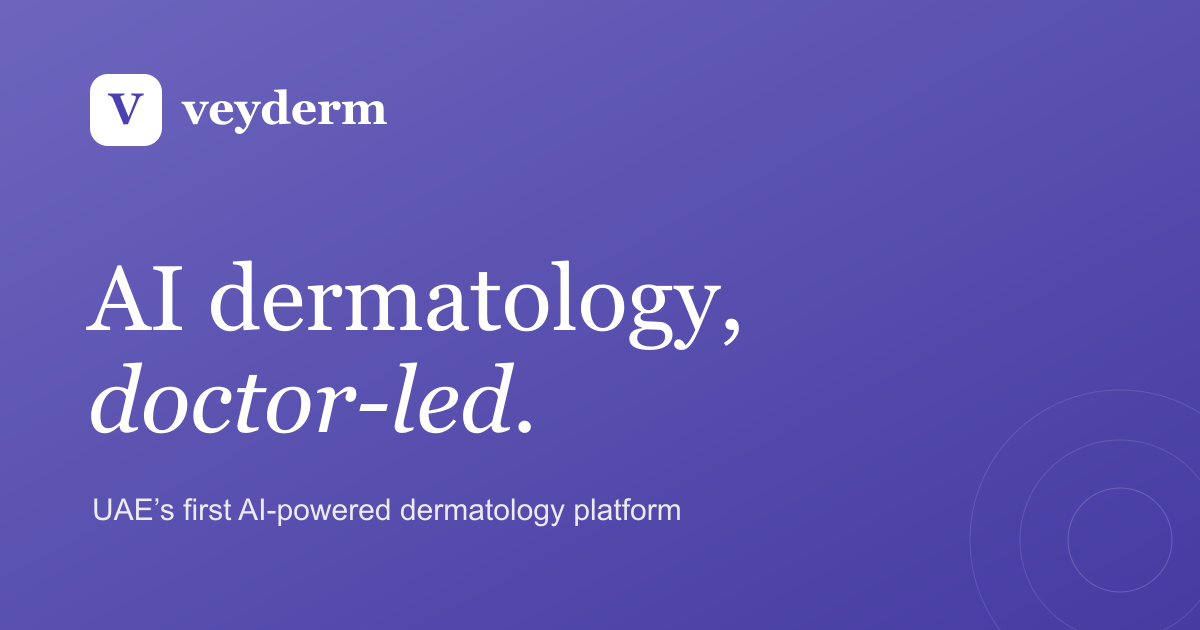
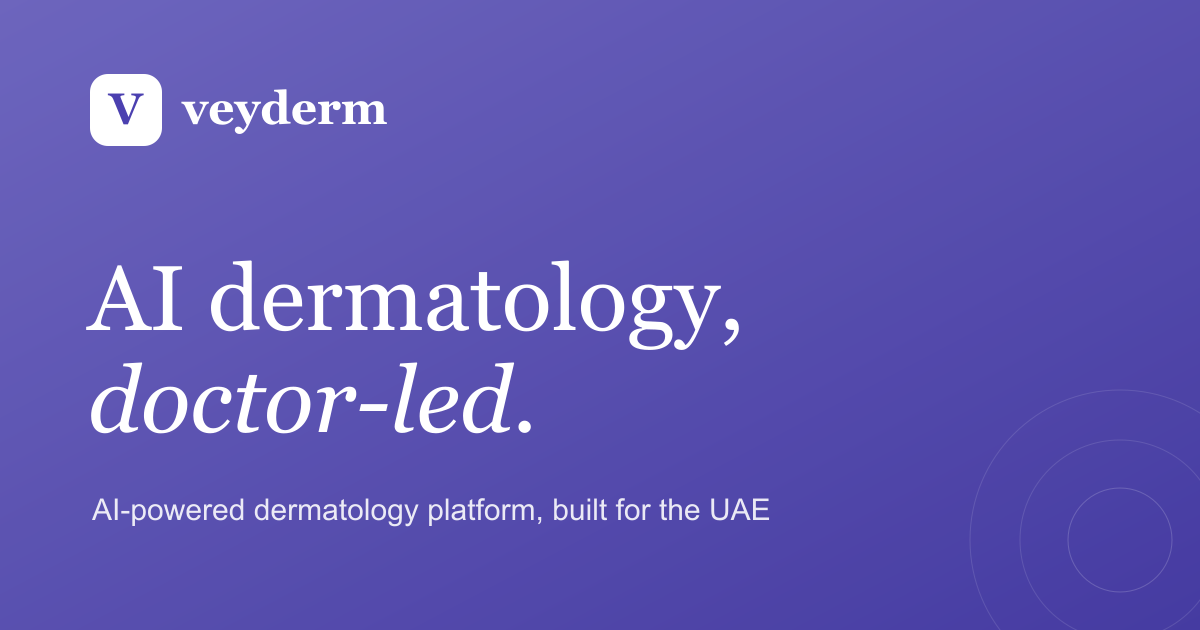
SEO, FAQ and credibility improvements
- Add accessible FAQ accordion (7 Q&As) before the final CTA; honest answers
  from the site's own claims with [REPLACE: ...] markers stripped before render
- Add JSON-LD (Organization, WebSite, FAQPage) in page.tsx; no "first" claim,
  no fabricated figures/partners/socials; FAQ data shared via lib/faq.ts
- ForDoctors: "The doctor stays in control" 3-step visual flow
  (AI suggests -> you review the evidence -> you approve)
- Add FoundingPartners section hidden behind a SHOW_PARTNERS constant until
  real content exists
- Soften "UAE's first AI-powered dermatology platform" -> "AI-powered
  dermatology platform, built for the UAE" in the hero, metadata and OG image
  (regenerated); keep "first" only if confirmed
- Footer: visible contact route (email + [REPLACE: WhatsApp number])
- products/[slug] already returns notFound() and is absent from the sitemap

Changed region(s): [[0.0617, 0.7841, 0.6475, 0.8444]]

diff --git a/components/ForDoctors.tsx b/components/ForDoctors.tsx
@@ -79,6 +79,50 @@ export function ForDoctors() {
             <p>Allergies, pregnancy, and clashes flagged automatically.</p>
           </div>
         </div>
+        <div className="control">
+          <div className="control-t">The doctor stays in control</div>
+          <ol className="control-flow">
+            <li className="cf-step">
+              <span className="cf-ic">
+                <svg viewBox="0 0 24 24" width="22" height="22" fill="none" stroke="currentColor" strokeWidth="1.6" strokeLinecap="round" strokeLinejoin="round" aria-hidden="true">
+                  <path d="M12 3v3M12 18v3M3 12h3M18 12h3M5.6 5.6l2.1 2.1M16.3 16.3l2.1 2.1M18.4 5.6l-2.1 2.1M7.7 16.3l-2.1 2.1" />
+                </svg>
+              </span>
+              <h3>AI suggests</h3>
+              <p>Evidence-ranked options and safety flags, drafted in seconds.</p>
+            </li>
+            <li className="cf-arrow" aria-hidden="true">
+              <svg viewBox="0 0 24 24" width="20" height="20" fill="none" stroke="currentColor" strokeWidth="2" strokeLinecap="round" strokeLinejoin="round">
+                <path d="M5 12h14" /><path d="m13 6 6 6-6 6" />
+              </svg>
+            </li>
+            <li className="cf-step">
+              <span className="cf-ic">
+                <svg viewBox="0 0 24 24" width="22" height="22" fill="none" stroke="currentColor" strokeWidth="1.6" strokeLinecap="round" strokeLinejoin="round" aria-hidden="true">
+                  <path d="M2 12s3.5-7 10-7 10 7 10 7-3.5 7-10 7-10-7-10-7z" />
+                  <circle cx="12" cy="12" r="3" />
+                </svg>
+              </span>
+              <h3>You review the evidence</h3>
+              <p>See how strong the evidence is, explained in plain words.</p>
+            </li>
+            <li className="cf-arrow" aria-hidden="true">
+              <svg viewBox="0 0 24 24" width="20" height="20" fill="none" stroke="currentColor" strokeWidth="2" strokeLinecap="round" strokeLinejoin="round">
+                <path d="M5 12h14" /><path d="m13 6 6 6-6 6" />
+              </svg>
+            </li>
+            <li className="cf-step">
+              <span className="cf-ic">
+                <svg viewBox="0 0 24 24" width="22" height="22" fill="none" stroke="currentColor" strokeWidth="1.6" strokeLinecap="round" strokeLinejoin="round" aria-hidden="true">
+                  <path d="M20 6 9 17l-5-5" />
+                </svg>
+              </span>
+              <h3>You approve</h3>
+              <p>Nothing reaches the patient until you say so.</p>
+            </li>
+          </ol>
+        </div>
+
         <div className="start">
           <div className="start-t">Getting started is simple</div>
           <ol className="s3">

diff --git a/app/globals.css b/app/globals.css
@@ -471,3 +471,40 @@ footer .logo-foot{height:30px}
 .legal ul{margin:0 0 14px;padding-left:20px;color:var(--muted);line-height:1.65}
 .legal li{margin-bottom:6px}
 .legal .back{display:inline-block;margin-top:32px;font-weight:600;color:var(--purple-deep)}
+
+/* FAQ accordion */
+.faq-list{margin-top:36px;max-width:820px;border-top:1px solid var(--line)}
+.faq-item{border-bottom:1px solid var(--line)}
+.faq-q{margin:0;font-size:inherit;font-weight:inherit;line-height:inherit}
+.faq-q button{width:100%;display:flex;align-items:center;justify-content:space-between;gap:16px;text-align:left;background:none;border:0;cursor:pointer;padding:20px 4px;font-family:var(--sans);font-size:17px;font-weight:600;color:var(--ink)}
+.faq-q button:hover{color:var(--purple-deep)}
+.faq-chevron{flex:none;color:var(--purple);transition:transform .2s ease}
+.faq-item.open .faq-chevron{transform:rotate(180deg)}
+.faq-a{padding:0 4px 22px;max-width:72ch}
+.faq-a p{color:var(--muted);font-size:15.5px;line-height:1.65}
+
+/* Doctor-stays-in-control flow */
+.control{margin-top:40px;border:1px solid var(--line);border-radius:var(--r-lg);background:var(--purple-soft);padding:28px 26px}
+.control-t{font-weight:600;font-size:16px;color:var(--purple-deep);margin-bottom:22px;text-align:center}
+.control-flow{list-style:none;margin:0;padding:0;display:flex;align-items:flex-start;justify-content:center;gap:12px;flex-wrap:wrap}
+.cf-step{flex:1;min-width:178px;max-width:240px;text-align:center;display:flex;flex-direction:column;align-items:center;gap:8px}
+.cf-ic{width:52px;height:52px;border-radius:50%;background:var(--paper);border:2px solid var(--purple);color:var(--purple);display:grid;place-items:center;box-shadow:var(--sh-sm)}
+.cf-step h3{font-size:16px;font-weight:600;color:var(--ink)}
+.cf-step p{font-size:13.5px;color:var(--muted);line-height:1.5}
+.cf-arrow{display:grid;place-items:center;color:var(--purple);align-self:center;padding-top:14px}
+@media(max-width:640px){
+  .control-flow{flex-direction:column;align-items:stretch}
+  .cf-step{max-width:none}
+  .cf-arrow{transform:rotate(90deg);padding:0}
+}
+
+/* Founding partners (hidden until real content) */
+.founding-grid{margin-top:32px;border:1px dashed var(--line);border-radius:var(--r-lg);padding:48px;text-align:center}
+.founding-ph{color:var(--muted);font-size:15px}
+
+/* Footer contact */
+.fcontact{margin-top:28px;padding-top:24px;border-top:1px solid var(--line);display:flex;align-items:center;gap:14px 24px;flex-wrap:wrap}
+.fcontact-t{font-weight:600;color:var(--ink);font-size:14px}
+.fcontact-item{display:inline-flex;align-items:center;gap:8px;font-size:14px;color:var(--muted)}
+.fcontact-item svg{color:var(--purple-deep);flex:none}
+a.fcontact-item:hover{color:var(--ink)}

diff --git a/lib/faq.ts b/lib/faq.ts
@@ -1,0 +1,44 @@
+// FAQ content — shared between the client accordion (components/Faq.tsx) and the
+// server-rendered FAQPage JSON-LD (app/page.tsx). Kept in a plain (non-client)
+// module so both the server and client can import it.
+//
+// Honest answers drawn from the site's own claims. Where a concrete fact isn't
+// established yet, the answer carries a [REPLACE: ...] marker, which is stripped
+// before rendering and before use in structured data.
+
+export const FAQ_ITEMS: { q: string; a: string }[] = [
+  {
+    q: "What is Veyderm?",
+    a: "Veyderm is an AI agent that helps licensed dermatologists in the UAE build evidence-based treatment plans, recommend verified products, and stay connected with patients on WhatsApp. The dermatologist reviews and approves every plan.",
+  },
+  {
+    q: "Is this medical advice?",
+    a: "No. Veyderm supports dermatologists — it doesn't replace them. The sample plans, products and evidence levels shown on this site are illustrative examples, not recommendations. Always consult a qualified healthcare professional.",
+  },
+  {
+    q: "How are products verified?",
+    a: "Recommendations come from authorized distributors, so dermatologists prescribe genuine products rather than fakes or grey-market stock. [REPLACE: details of how products and distributors are authorized]",
+  },
+  {
+    q: "Who decides the treatment plan?",
+    a: "The dermatologist. The AI suggests evidence-ranked options and flags safety issues such as interactions or pregnancy cautions, but nothing reaches a patient until the doctor reviews and approves it — AI suggests, the doctor decides.",
+  },
+  {
+    q: "How do patients use it on WhatsApp?",
+    a: "Once a dermatologist approves a plan, it is delivered to the patient on WhatsApp with ingredients, usage and safety notes, follow-up reminders, and a 24/7 assistant for product and usage questions.",
+  },
+  {
+    q: "Who can join?",
+    a: "Veyderm is onboarding licensed dermatologists and authorized distributors in the UAE. Request early access and we verify your medical license before you start. [REPLACE: full eligibility and onboarding details]",
+  },
+  {
+    q: "How is my data handled?",
+    a: "The early-access form collects only your name, email and role, used solely to contact you about access. We don't sell your data, and analytics load only if you accept the cookie banner. See our Privacy Policy for details.",
+  },
+];
+
+// Strip [REPLACE: ...] markers so placeholder text never leaks into the rendered
+// answer or the FAQPage structured data.
+export function cleanAnswer(a: string): string {
+  return a.replace(/\s*\[REPLACE:[^\]]*\]/g, "").trim();
+}

diff --git a/app/page.tsx b/app/page.tsx
@@ -9,13 +9,70 @@ import { HowItWorks } from "@/components/HowItWorks";
 import { PatientJourney } from "@/components/PatientJourney";
 import { ForDoctors } from "@/components/ForDoctors";
 import { ForDistributors } from "@/components/ForDistributors";
+import { FoundingPartners } from "@/components/FoundingPartners";
+import { Faq } from "@/components/Faq";
+import { FAQ_ITEMS, cleanAnswer } from "@/lib/faq";
 import { CtaForm } from "@/components/CtaForm";
 import { Footer } from "@/components/Footer";
 import { ScrollReveal } from "@/components/ScrollReveal";
 
+const siteUrl = (process.env.NEXT_PUBLIC_SITE_URL || "https://www.veyderm.com").replace(
+  /\/$/,
+  ""
+);
+
+// Structured data. Only verifiable claims — no "first", no fabricated figures,
+// partners or social profiles.
+const jsonLd = {
+  "@context": "https://schema.org",
+  "@graph": [
+    {
+      "@type": "Organization",
+      "@id": `${siteUrl}/#organization`,
+      name: "Veyderm",
+      url: siteUrl,
+      logo: `${siteUrl}/og-image.png`,
+      description:
+        "An AI-powered dermatology platform built for the UAE that helps licensed dermatologists build evidence-based treatment plans, recommend verified products, and stay connected with patients on WhatsApp.",
+      email: "info@veyderm.com",
+      address: {
+        "@type": "PostalAddress",
+        addressLocality: "Dubai",
+        addressCountry: "AE",
+      },
+      contactPoint: {
+        "@type": "ContactPoint",
+        email: "info@veyderm.com",
+        contactType: "customer support",
+        areaServed: "AE",
+      },
+    },
+    {
+      "@type": "WebSite",
+      "@id": `${siteUrl}/#website`,
+      name: "Veyderm",
+      url: siteUrl,
+      publisher: { "@id": `${siteUrl}/#organization` },
+    },
+    {
+      "@type": "FAQPage",
+      "@id": `${siteUrl}/#faq`,
+      mainEntity: FAQ_ITEMS.map((item) => ({
+        "@type": "Question",
+        name: item.q,
+        acceptedAnswer: { "@type": "Answer", text: cleanAnswer(item.a) },
+      })),
+    },
+  ],
+};
+
 export default function Home() {
   return (
     <>
+      <script
+        type="application/ld+json"
+        dangerouslySetInnerHTML={{ __html: JSON.stringify(jsonLd) }}
+      />
       <ScrollReveal />
       <Header />
       <main id="top">
@@ -29,6 +86,8 @@ export default function Home() {
         <PatientJourney />
         <ForDoctors />
         <ForDistributors />
+        <FoundingPartners />
+        <Faq />
         <CtaForm />
       </main>
       <Footer />

diff --git a/components/Faq.tsx b/components/Faq.tsx
@@ -1,0 +1,60 @@
+"use client";
+
+import { useState } from "react";
+import { FAQ_ITEMS, cleanAnswer } from "@/lib/faq";
+
+export function Faq() {
+  const [open, setOpen] = useState<number | null>(0);
+
+  return (
+    <section className="sec faq" id="faq">
+      <div className="wrap">
+        <div className="sec-tag">FAQ</div>
+        <h2>Questions, answered plainly.</h2>
+        <div className="faq-list">
+          {FAQ_ITEMS.map((item, i) => {
+            const isOpen = open === i;
+            return (
+              <div className={`faq-item${isOpen ? " open" : ""}`} key={item.q}>
+                <h3 className="faq-q">
+                  <button
+                    type="button"
+                    aria-expanded={isOpen}
+                    aria-controls={`faq-panel-${i}`}
+                    id={`faq-trigger-${i}`}
+                    onClick={() => setOpen(isOpen ? null : i)}
+                  >
+                    <span>{item.q}</span>
+                    <svg
+                      className="faq-chevron"
+                      viewBox="0 0 24 24"
+                      width="20"
+                      height="20"
+                      fill="none"
+                      stroke="currentColor"
+                      strokeWidth="1.8"
+                      strokeLinecap="round"
+                      strokeLinejoin="round"
+                      aria-hidden="true"
+                    >
+                      <path d="m6 9 6 6 6-6" />
+                    </svg>
+                  </button>
+                </h3>
+                <div
+                  className="faq-a"
+                  id={`faq-panel-${i}`}
+                  role="region"
+                  aria-labelledby={`faq-trigger-${i}`}
+                  hidden={!isOpen}
+                >
+                  <p>{cleanAnswer(item.a)}</p>
+                </div>
+              </div>
+            );
+          })}
+        </div>
+      </div>
+    </section>
+  );
+}

diff --git a/components/Footer.tsx b/components/Footer.tsx
@@ -13,8 +13,23 @@ export function Footer() {
             <a href="#distributors">For Distributors</a>
             <a href="/privacy">Privacy</a>
             <a href="/terms">Terms</a>
-            <a href="mailto:info@veyderm.com">Contact</a>
           </div>
+        </div>
+        <div className="fcontact">
+          <span className="fcontact-t">Get in touch</span>
+          <a className="fcontact-item" href="mailto:info@veyderm.com">
+            <svg viewBox="0 0 24 24" width="17" height="17" fill="none" stroke="currentColor" strokeWidth="1.6" strokeLinecap="round" strokeLinejoin="round" aria-hidden="true">
+              <rect x="3" y="5" width="18" height="14" rx="2" />
+              <path d="m3 7 9 6 9-6" />
+            </svg>
+            info@veyderm.com
+          </a>
+          <span className="fcontact-item">
+            <svg viewBox="0 0 24 24" width="17" height="17" fill="currentColor" aria-hidden="true">
+              <path d="M12 2a10 10 0 0 0-8.6 15L2 22l5.1-1.3A10 10 0 1 0 12 2zm0 2a8 8 0 1 1-4.1 14.9l-.3-.2-2.5.7.7-2.4-.2-.3A8 8 0 0 1 12 4zm4.6 11.3c-.2.6-1.2 1.1-1.7 1.2-.5.1-1 .2-3.2-.7-2.7-1-4.4-3.7-4.5-3.9-.1-.2-1-1.4-1-2.6s.7-1.8.9-2.1c.2-.3.5-.3.7-.3h.5c.2 0 .4 0 .6.5.2.5.8 2 .9 2.1 0 .1.1.3 0 .5l-.4.6-.4.4c-.1.1-.3.3-.1.5.2.3.7 1 1.4 1.7.9.8 1.7 1.1 2 1.2.2.1.4.1.5-.1l.8-1c.2-.2.4-.2.6-.1.3.1 1.5.7 1.8.9.3.1.4.2.5.3.1.2.1.6-.1 1.2z" />
+            </svg>
+            WhatsApp: [REPLACE: WhatsApp number]
+          </span>
         </div>
         <div className="fbar">
           © 2026 Veyderm. All rights reserved. Dubai, United Arab Emirates.

diff --git a/components/FoundingPartners.tsx b/components/FoundingPartners.tsx
@@ -1,0 +1,20 @@
+// Founding partners / advisory board. Hidden until there is real content to
+// show — flip SHOW_PARTNERS to true once logos or advisors are confirmed, and
+// replace the placeholder below with the real items. No fabricated partners.
+const SHOW_PARTNERS = false;
+
+export function FoundingPartners() {
+  if (!SHOW_PARTNERS) return null;
+
+  return (
+    <section className="sec founding" id="partners">
+      <div className="wrap">
+        <div className="sec-tag">Founding partners</div>
+        <h2>Built with the people who set the standard.</h2>
+        <div className="founding-grid">
+          <p className="founding-ph">[REPLACE: partner logos or advisory board]</p>
+        </div>
+      </div>
+    </section>
+  );
+}

diff --git a/app/layout.tsx b/app/layout.tsx
@@ -22,7 +22,7 @@ const hanken = Hanken_Grotesk({
 const siteUrl = process.env.NEXT_PUBLIC_SITE_URL || "https://www.veyderm.com";
 const title = "Veyderm — AI Dermatology for the UAE";
 const description =
-  "Veyderm helps licensed dermatologists build evidence-based treatment plans, surface clinically verified products, and deliver personalized care — in minutes. The UAE's first AI-powered dermatology platform.";
+  "Veyderm helps licensed dermatologists build evidence-based treatment plans, surface clinically verified products, and deliver personalized care — in minutes. An AI-powered dermatology platform built for the UAE.";
 
 export const metadata: Metadata = {
   metadataBase: new URL(siteUrl),

diff --git a/components/Hero.tsx b/components/Hero.tsx
@@ -13,7 +13,7 @@ export function Hero() {
         <div className="hero-copy">
           <span className="eyebrow">
             <span className="dot" />
-            UAE&apos;s first AI-powered dermatology platform
+            AI-powered dermatology platform, built for the UAE
           </span>
           <h1>
             AI dermatology,

diff --git a/components/ScrollReveal.tsx b/components/ScrollReveal.tsx
@@ -20,6 +20,7 @@ const SELECTOR = [
   ".reassure",
   ".whatis-col",
   ".tl-step",
+  ".cf-step",
 ].join(",");
 
 export function ScrollReveal() {
